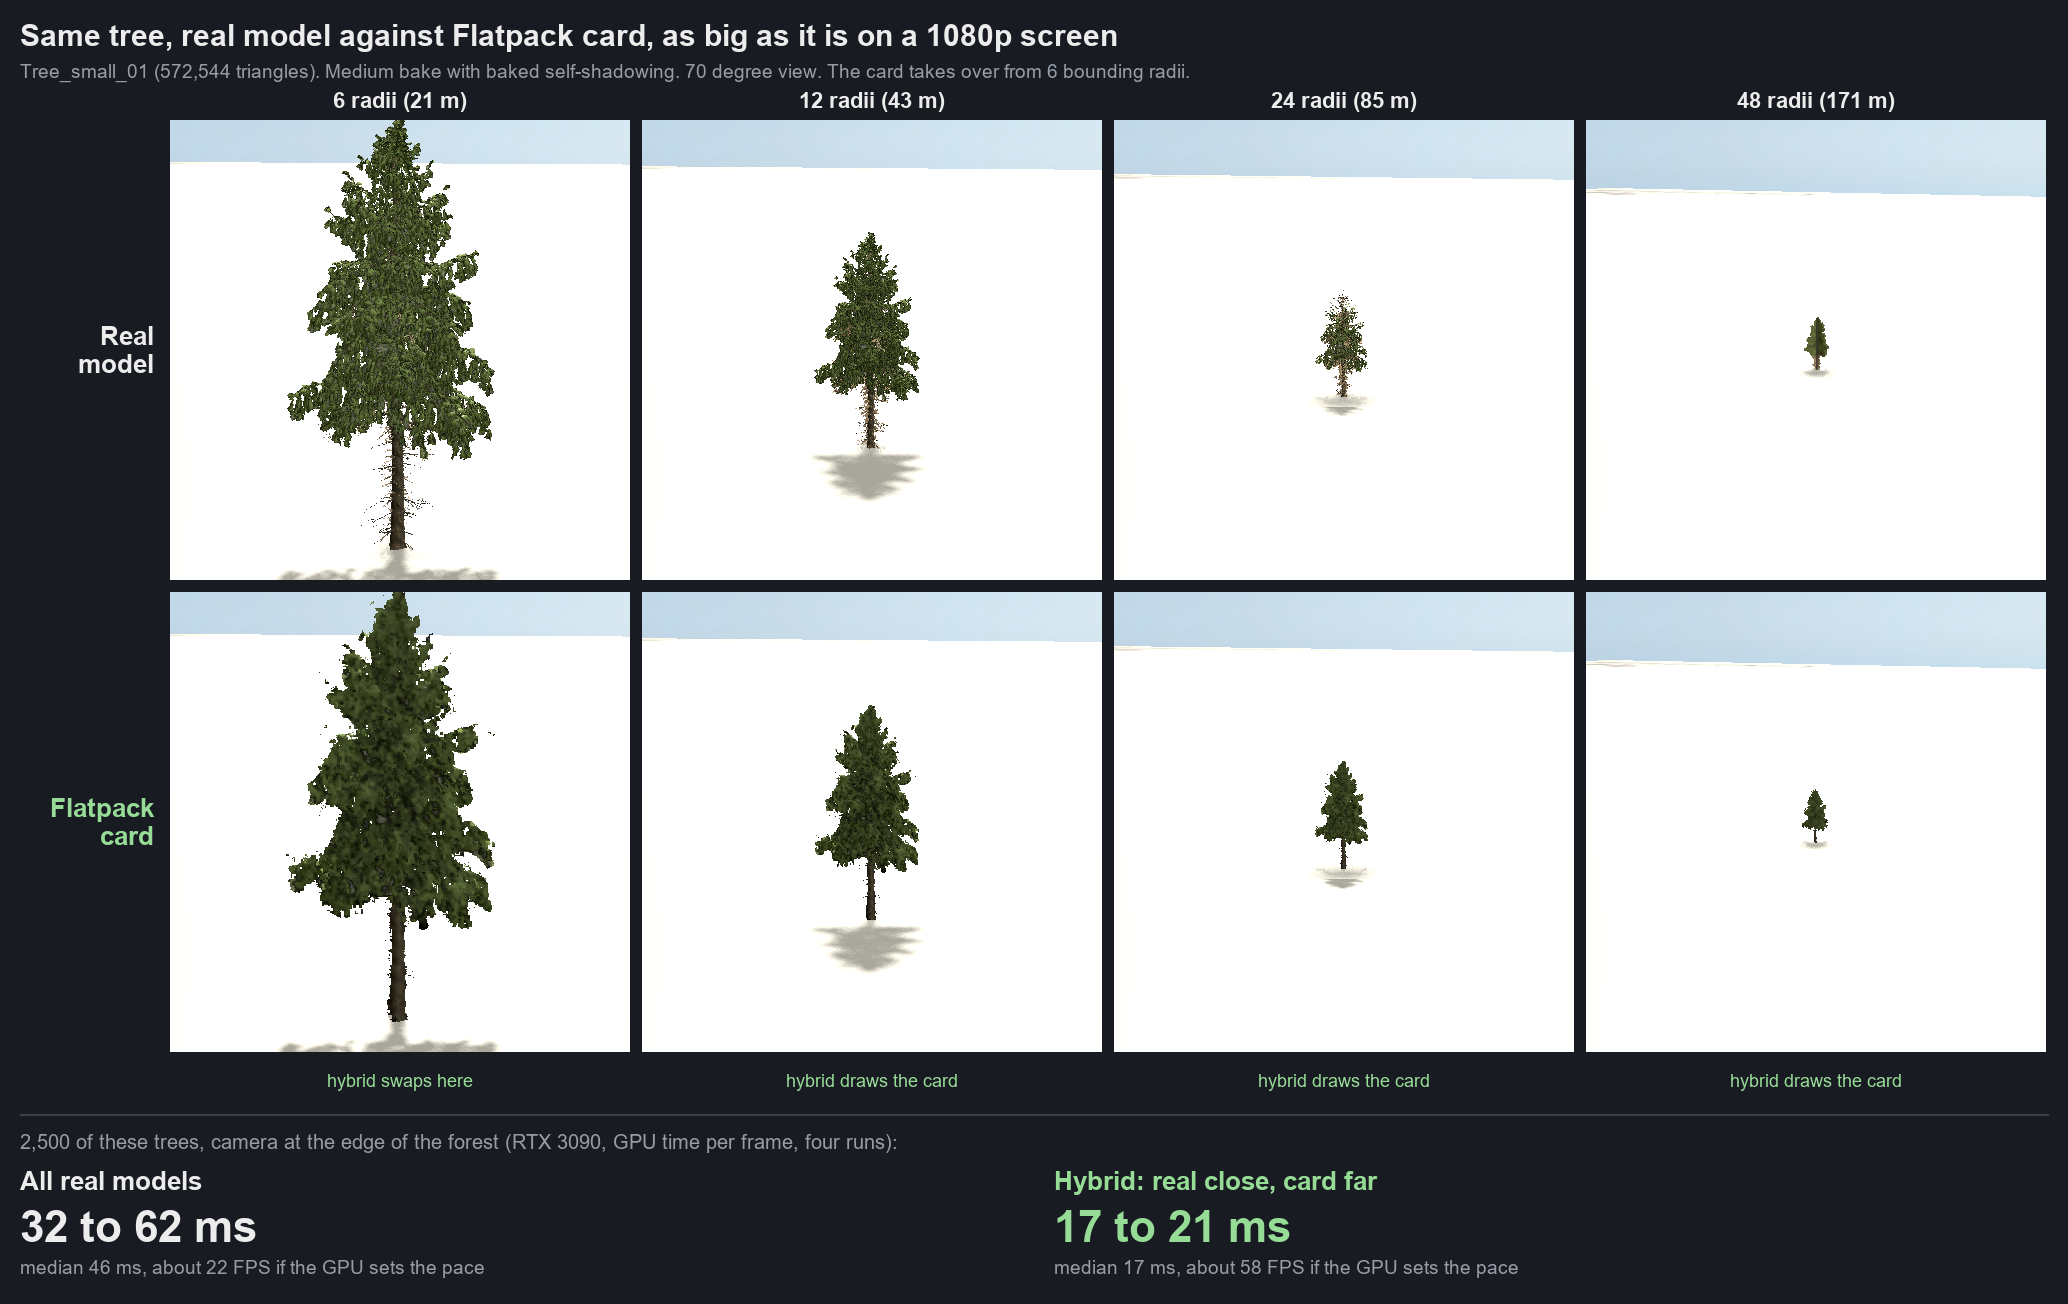
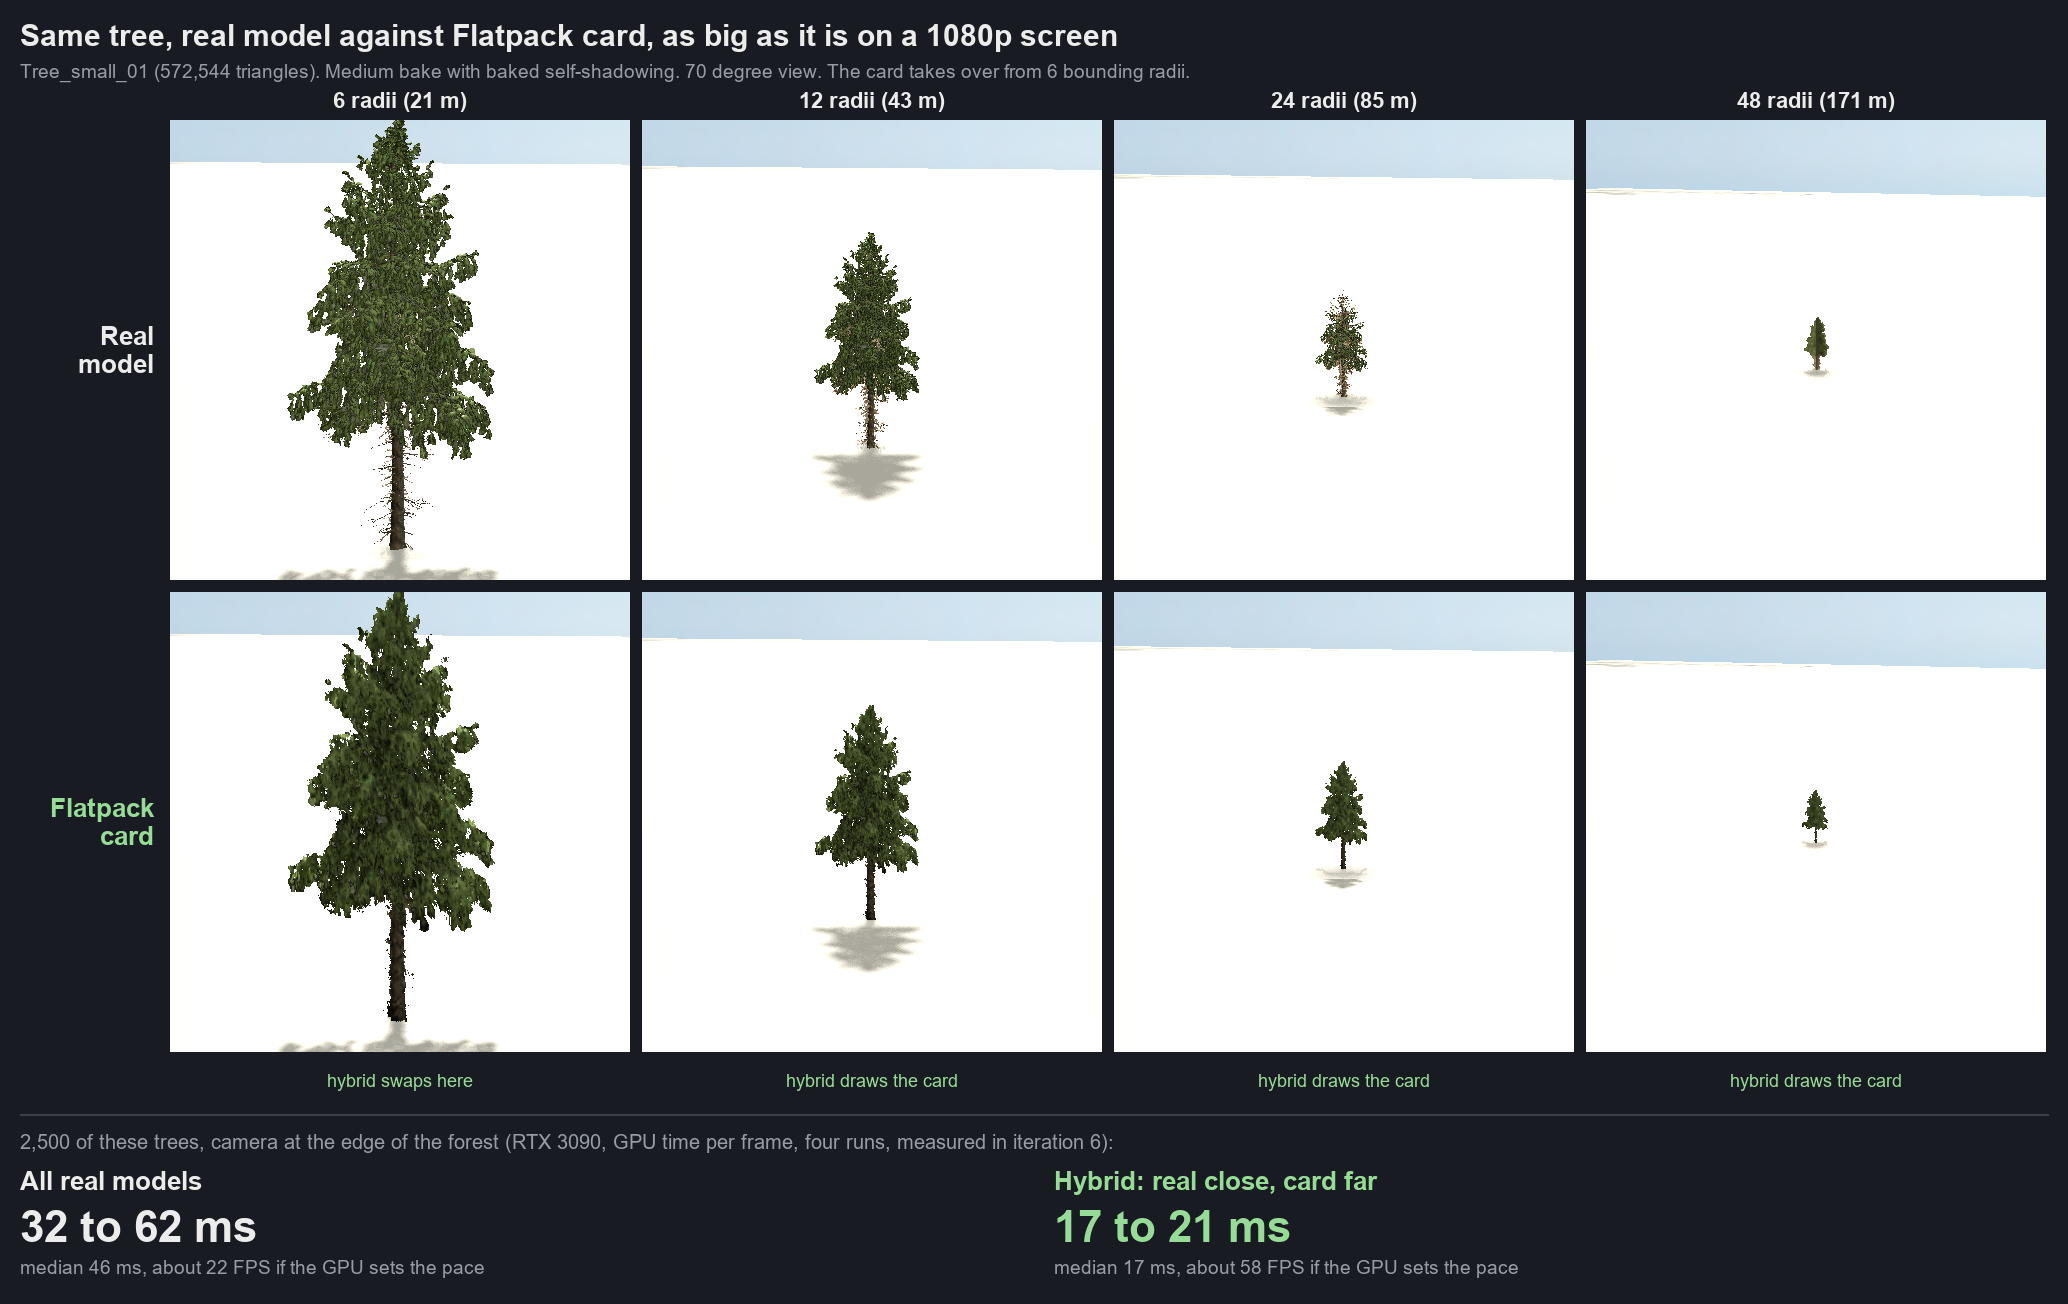
Re-render README images with iteration 8 bakes
- Hero, turntable, knight distance sheet, ten-model grid, chair orbit
  against the first shader, tree distance sheet and the chair at every
  quality level, all from fresh bakes with the current baker.
- New files in docs/media; benchmark folders keep their own iteration's
  images.
- README numbers updated: hero card brightness within 1% of the tree;
  chair orbit difference 2.5 against 6.3 for the first shader, jump 3.4
  against 7.9; chair holds up from 3 radii at Ultra and 4 at Medium.

Changed region(s): [[0.1547, 0.4908, 0.2476, 0.7055], [0.4023, 0.5521, 0.4333, 0.6748], [0.4333, 0.8589, 0.5261, 0.8896]]

diff --git a/README.md b/README.md
@@ -6,11 +6,11 @@ looks like the model from every angle, lights like it, and casts its shadow.
 ![A 572,544-triangle tree beside its Flatpack card: one face](docs/media/flatpack_hero.png)
 
 <sub>Same camera and light on both sides. Card: Ultra bake with baked self-shadowing (Sky Occlusion 1), which brings
-its brightness within 2% of the real tree.</sub>
+its brightness within 1% of the real tree.</sub>
 
 ## Real model up close, card at a distance
 
-![The knight from 1.5 to 24 bounding radii](Benchmarks/iteration-3-ten-models/media/distance_knight.png)
+![The knight from 1.5 to 24 bounding radii](docs/media/distance_knight.png)
 
 The real model on top, its card below, as the camera moves from 1.5 to 24 bounding radii. The numbers under each
 pair are the knight's height on a 1080p screen.
@@ -45,7 +45,7 @@ won't beat it. Method and raw numbers: [`Benchmarks/`](Benchmarks/README.md).
 
 ## Ten models, side by side
 
-![Ten models beside their Flatpack cards](Benchmarks/iteration-3-ten-models/media/comparison_grid.png)
+![Ten models beside their Flatpack cards](docs/media/comparison_grid.png)
 
 Real model on the left of each pair, the card on the right, at 4 bounding radii on a 1080p screen. All ten are
 public models from sbox.game (credits in [iteration 3](Benchmarks/iteration-3-ten-models/README.md#models)).
@@ -54,11 +54,12 @@ public models from sbox.game (credits in [iteration 3](Benchmarks/iteration-3-te
 
 The camera circles a chair: real model, Flatpack's first shader, and the current one.
 
-![Real model, first shader and current card while the camera circles](Benchmarks/iteration-3-ten-models/media/flicker_orbit_chair.gif)
-![Difference from the real model at every step of the orbit](Benchmarks/iteration-3-ten-models/media/flicker_chart_chair.png)
+![Real model, first shader and current card while the camera circles](docs/media/flicker_orbit_chair.gif)
+![Difference from the real model at every step of the orbit](docs/media/flicker_chart_chair.png)
 
-Across the full circle the current card stays 3.9 away from the real model on average (the first shader: 8.5), and
-that difference changes about half as much from one step to the next, which is what you see as flicker.
+Across the full circle the current card (Medium) stays 2.5 away from the real model on average (the first shader, on
+the same bake data: 6.3), and that difference changes less than half as much from one step to the next (3.4 against
+7.9), which is what you see as flicker.
 
 ### How close can you get?
 
@@ -104,12 +105,12 @@ model afterwards: the bake stores the distance from which the card looks like th
 swaps there. The check was calibrated against a person's judgement
 ([iteration 6](Benchmarks/iteration-6-real-scenes/README.md#does-it-look-right-to-a-person)).
 
-![Quality levels by distance, and flicker against the real model](Benchmarks/iteration-4-quality-levels/media/presets_quality.png)
-![The chair at every level while the camera circles (current bakes)](Benchmarks/iteration-6-real-scenes/media/presets_orbit_chair.gif)
+![Quality levels by distance, and flicker against the real model (iteration 4)](Benchmarks/iteration-4-quality-levels/media/presets_quality.png)
+![The chair at every level while the camera circles (current bakes)](docs/media/presets_orbit_chair.gif)
 
 More views don't reduce flicker: at every level the card flickers as much as the real model does, and no more. What
-changes is sharpness. Ultra's extra search steps keep thin parts up close (the chair holds up from 3 radii instead of
-16), and High's extra views and pixels help past 8 radii. Measurements, charts and the GPU tests behind the table:
+changes is sharpness. Ultra's extra search steps keep thin parts up close (the chair holds up from 3 radii at Ultra
+and 4 at Medium), and High's extra views and pixels help past 8 radii. Measurements, charts and the GPU tests behind the table:
 [`Benchmarks/iteration-4-quality-levels`](Benchmarks/iteration-4-quality-levels/README.md), and for supersampling, the
 new Ultra, the bake check and Auto: [`Benchmarks/iteration-5-measure-and-auto`](Benchmarks/iteration-5-measure-and-auto/README.md).
 

diff --git a/CHANGELOG.md b/CHANGELOG.md
@@ -5,6 +5,18 @@ Flatpack by Anakin Studio. Newest entries first.
 Testing levels: **static** (read through, not compiled), **compiled** (editor compile succeeded),
 **editor** (exercised in the running s&box editor).
 
+## 2026-10-26: README images re-rendered with iteration 8 bakes
+
+- Change: every README image that shows a card is re-rendered from fresh bakes with the current baker: the hero tree
+  (card brightness now within 1% of the tree, was 2%), the turntable, the knight distance sheet, the ten-model grid,
+  the chair orbit against the first shader (difference from the model 2.5 against 6.3, frame-to-frame jump 3.4 against
+  7.9), the tree distance sheet and the chair at every quality level. The new files live in `docs/media`; the
+  benchmark folders keep their own iteration's images. The tree distance sheet's GPU footer now says it was measured in
+  iteration 6. README text updated to the new numbers.
+- Files: `docs/media/*`, `README.md`
+- Testing: editor (all renders from the running editor; tree, chair at four levels, cactus, burger car and rock baked
+  fresh, the other grid models from the iteration 8 test-set bakes).
+
 ## 2026-10-25: Metres beside bounding radii
 
 - Change:
